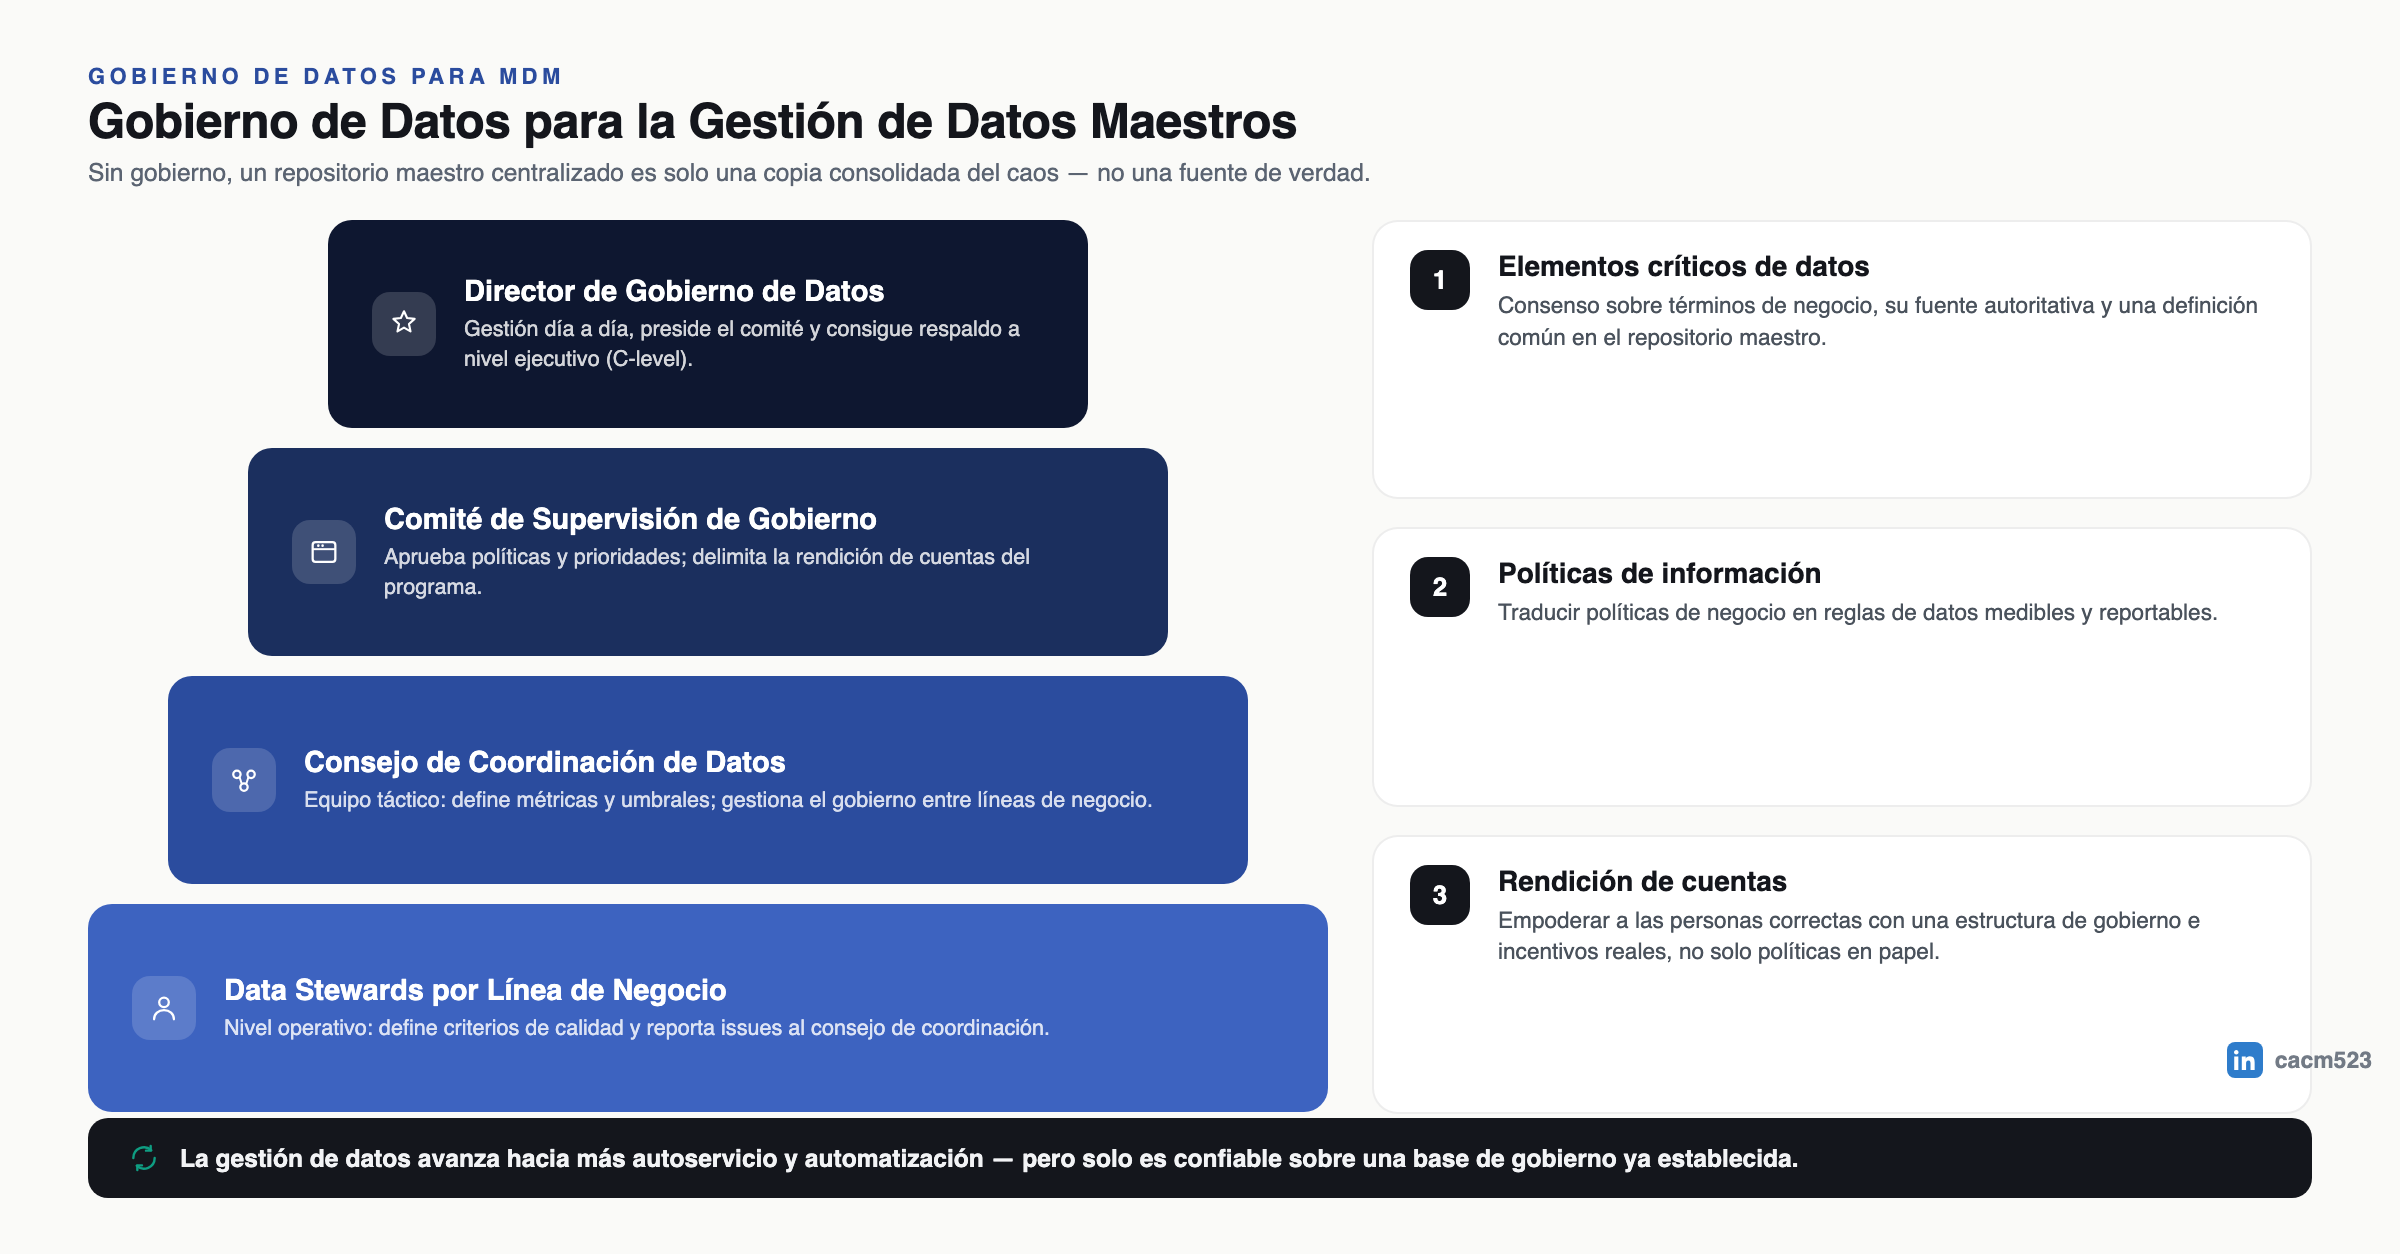
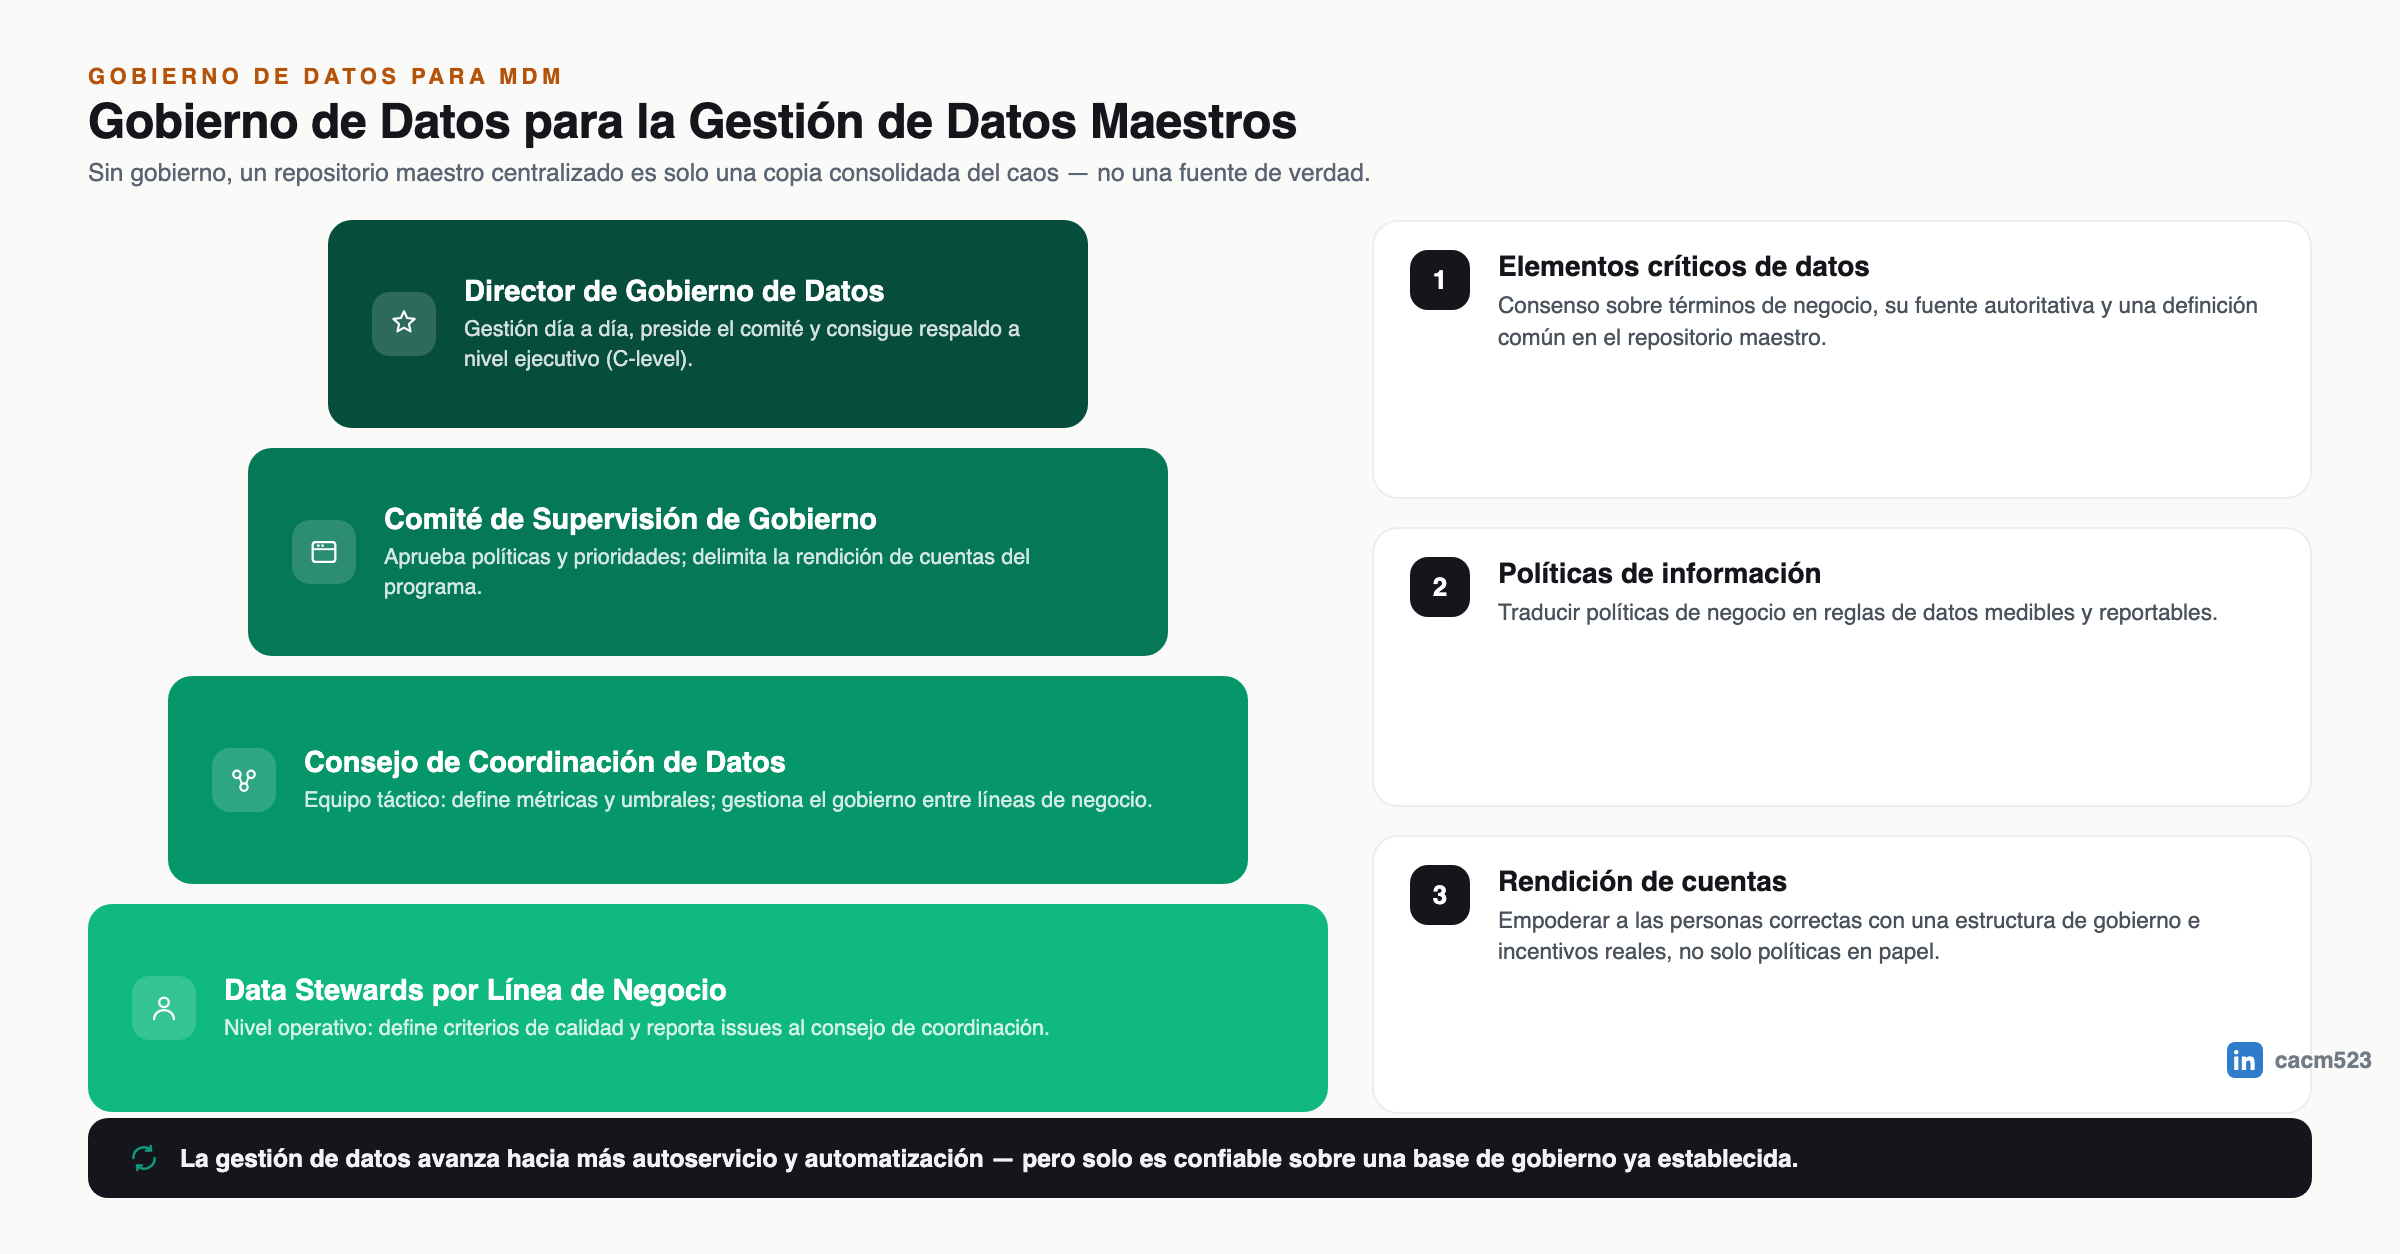
Tanda 4 (gobierno-de-datos): corrige paleta en data-governance-mdm
Pirámide jerárquica de azul a verde (gradiente oscuro->claro), eyebrow a tierra como acento. Composición de pirámide preservada.

Changed region(s): [[0.0312, 0.1555, 0.5625, 0.9019], [0.125, 0.0311, 0.2188, 0.0622], [0.0312, 0.0311, 0.0938, 0.0622]]

diff --git a/Construidos/Data_Governance_MDM/data-governance-mdm.html b/Construidos/Data_Governance_MDM/data-governance-mdm.html
@@ -8,7 +8,7 @@
   body { width:1264px; height:691px; padding:32px; background:#EDEFF3; font-family:-apple-system,"SF Pro Display","Segoe UI",Inter,Helvetica,Arial,sans-serif; }
   .canvas { position:relative; width:1200px; height:627px; background:#FAFAF8; overflow:hidden; }
 
-  .eyebrow { position:absolute; top:32px; left:44px; font-size:11px; font-weight:700; letter-spacing:2.2px; color:#2B4C9E; text-transform:uppercase; }
+  .eyebrow { position:absolute; top:32px; left:44px; font-size:11px; font-weight:700; letter-spacing:2.2px; color:#B45309; text-transform:uppercase; }
   .title { position:absolute; top:47px; left:44px; font-size:24px; font-weight:800; color:#14161C; letter-spacing:-0.2px; }
   .subtitle { position:absolute; top:79px; left:44px; width:1112px; font-size:12.3px; color:#5B6472; }
 
@@ -18,10 +18,10 @@
   .level .ic svg { width:17px; height:17px; }
   .level .t { font-size:14.5px; font-weight:800; }
   .level .d { margin-top:3px; font-size:10.8px; line-height:1.35; color:rgba(255,255,255,0.82); }
-  .l1 { width:380px; height:104px; background:#0E1730; }
-  .l2 { width:460px; height:104px; background:#1B2F5E; }
-  .l3 { width:540px; height:104px; background:#2B4C9E; }
-  .l4 { width:620px; height:104px; background:#3D63C0; }
+  .l1 { width:380px; height:104px; background:#064E3B; }
+  .l2 { width:460px; height:104px; background:#047857; }
+  .l3 { width:540px; height:104px; background:#059669; }
+  .l4 { width:620px; height:104px; background:#10B981; }
 
   .pillars { position:absolute; top:110px; left:686px; width:470px; height:447px; display:flex; flex-direction:column; gap:14px; }
   .pillar { flex:1; border-radius:13px; background:#fff; border:1px solid rgba(0,0,0,0.07); padding:14px 18px; display:flex; align-items:flex-start; gap:14px; }
